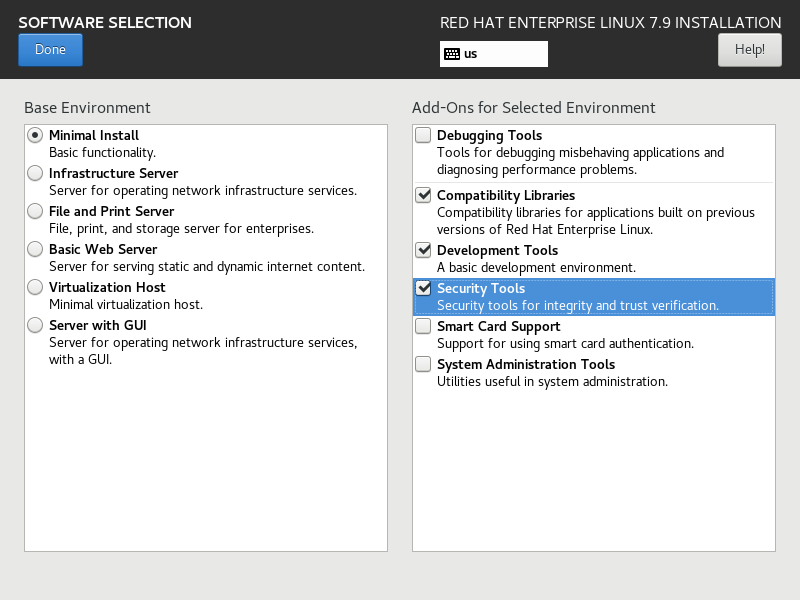
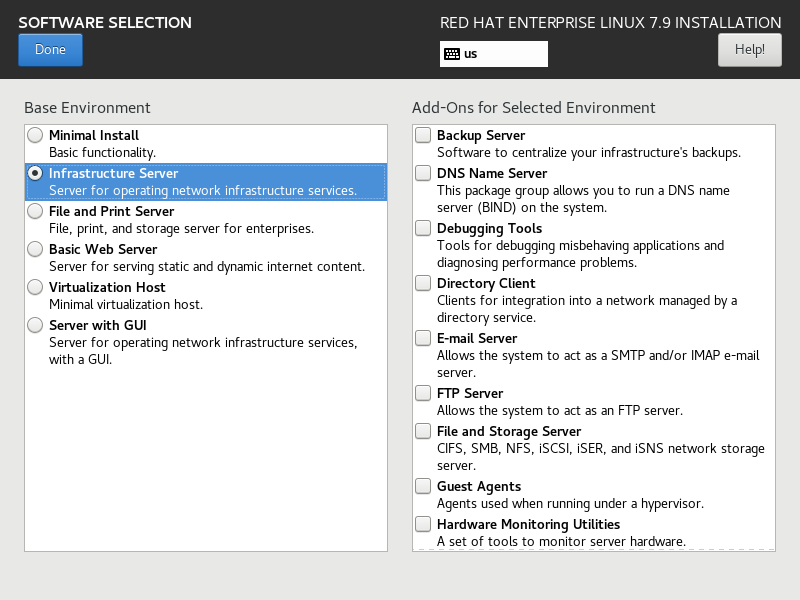
update

Changed region(s): [[0.0312, 0.21, 0.9688, 0.93], [0.7812, 0.72, 0.9375, 0.75], [0.8125, 0.84, 0.875, 0.87]]

diff --git a/docs/devops/linux/rhel7.md b/docs/devops/linux/rhel7.md
@@ -1,6 +1,6 @@
 # Redhat 7
 
-## 1. VMware安装
+## 1. VMware 12
 
 ![](../../assets/_images/devops/linux/rhel7/Vm1.png)
 ![](../../assets/_images/devops/linux/rhel7/Vm2.png)
@@ -14,17 +14,25 @@
 
 ![](../../assets/_images/devops/linux/rhel7/Vm8.png)
 
-?>将默认的 VMnet8 （NET模式） 网卡设置为 192.168.109.0/255.255.255.0，这样宿主机 windows 系统会默认获得192.168.109.1的IP，导入虚拟机镜像后可以将虚拟机网卡选择为 VMnet8 ，可以实现虚拟机 linux与外网通讯
+?> 桥接模式，必须手动选择宿主机对应的网卡，同时确认VMware Bridge Protocol被勾选，DNE LightWeight Filter未被勾选
 
 ![](../../assets/_images/devops/linux/rhel7/Vm9.png)
 
+![](../../assets/_images/devops/linux/rhel7/Vm9_win.png)
 
-?>将默认的 VMnet1 （仅主机模式） 网卡设置为 192.168.154.0/255.255.255.0，这样宿主机 windows 系统会默认获得192.168.154.1的IP，导入虚拟机镜像后可以将虚拟机网卡选择为 VMnet1 ，可以实现windows与虚拟机linux网络通信
+?>将默认的 VMnet8 （NET模式） 网卡设置为 192.168.109.0/255.255.255.0，这样宿主机 windows 系统会默认获得192.168.109.1的IP，导入虚拟机镜像后可以将虚拟机网卡选择为 VMnet8 ，可以实现虚拟机 linux与外网通讯
 
 ![](../../assets/_images/devops/linux/rhel7/Vm10.png)
 
 
-## 2. 系统安装
+?>将默认的 VMnet1 （仅主机模式） 网卡设置为 192.168.154.0/255.255.255.0，这样宿主机 windows 系统会默认获得192.168.154.1的IP，导入虚拟机镜像后可以将虚拟机网卡选择为 VMnet1 ，可以实现windows与虚拟机linux网络通信
+
+![](../../assets/_images/devops/linux/rhel7/Vm11.png)
+
+
+![](../../assets/_images/devops/linux/rhel7/Vm-net.png)
+
+## 2. 安装
 
 创建虚拟机
 
@@ -70,10 +78,10 @@
 ![](../../assets/_images/devops/linux/rhel7/17.png)
 
 接受更改Accept Changes，进入下面的界面
-
+    
 ![](../../assets/_images/devops/linux/rhel7/18.png)
 
-选择-SOFTWARE-软件选择SOFTWARE SELECTION，我们使用的是Infrastructure server版本。
+选择-SOFTWARE-软件选择SOFTWARE SELECTION，我们使用的是基础设置服务器。
 
 ![](../../assets/_images/devops/linux/rhel7/19.png)
 
@@ -121,41 +129,53 @@ KDUMP设置
 
 ## 3. 虚拟机
 
-```
-rpm -qa | grep yum
-rpm -e yum-rhn-plugin-2.0.1-10.el7.noarch --nodeps
+### 3.1 yum更换
 
+```bash
+rpm -qa | grep yum
+echo `rpm -qa | grep yum` > aa
+# 删除yum程序
+rpm -e yum-langpacks-0.4.2-7.el7.noarch --nodeps
+rpm -e yum-3.4.3-168.el7.noarch --nodeps
+rpm -e yum-metadata-parser-1.1.4-10.el7.x86_64 --nodeps
+rpm -e yum-rhn-plugin-2.0.1-10.el7.noarch --nodeps
+rpm -e yum-utils-1.1.31-54.el7_8.noarch --nodeps
+# 下载yum安装包
 wget http://mirrors.163.com/centos/7/os/x86_64/Packages/PackageKit-yum-1.1.10-2.el7.centos.x86_64.rpm
 wget http://mirrors.163.com/centos/7/os/x86_64/Packages/yum-3.4.3-168.el7.centos.noarch.rpm
 wget http://mirrors.163.com/centos/7/os/x86_64/Packages/yum-langpacks-0.4.2-7.el7.noarch.rpm
 wget http://mirrors.163.com/centos/7/os/x86_64/Packages/yum-metadata-parser-1.1.4-10.el7.x86_64.rpm
 wget http://mirrors.163.com/centos/7/os/x86_64/Packages/yum-rhn-plugin-2.0.1-10.el7.noarch.rpm
 wget http://mirrors.163.com/centos/7/os/x86_64/Packages/yum-utils-1.1.31-54.el7_8.noarch.rpm
-
+# 安装并设置yum源地址
 rpm -ivh *.rpm --force --nodeps
-cd /etc/yum.repos.d/
-vi CentOS-Base.repo
+vi /etc/yum.repos.d/CentOS-Base.repo
 ```
 
 ```conf
 [base]
 name=CentOS-$7 - Base - 163.com
+#mirrorlist=http://mirrorlist.centos.org/?release=$7&arch=$basearch&repo=os
 baseurl=http://mirrors.163.com/centos/7/os/$basearch/
 gpgcheck=1
 gpgkey=http://mirrors.163.com/centos/RPM-GPG-KEY-CentOS-7
+#released updates
 
 [updates]
 name=CentOS-$7 - Updates - 163.com
+#mirrorlist=http://mirrorlist.centos.org/?release=$7&arch=$basearch&repo=updates
 baseurl=http://mirrors.163.com/centos/7/updates/$basearch/
 gpgcheck=1
 gpgkey=http://mirrors.163.com/centos/RPM-GPG-KEY-CentOS-7
-
+#additional packages that may be useful
 
 [extras]
 name=CentOS-$7 - Extras - 163.com
+#mirrorlist=http://mirrorlist.centos.org/?release=$7&arch=$basearch&repo=extras
 baseurl=http://mirrors.163.com/centos/7/extras/$basearch/
 gpgcheck=1
 gpgkey=http://mirrors.163.com/centos/RPM-GPG-KEY-CentOS-7
+#additional packages that extend functionality of existing packages
 
 [centosplus]
 name=CentOS-$7 - Plus - 163.com
@@ -167,7 +187,12 @@ gpgkey=http://mirrors.163.com/centos/RPM-GPG-KEY-CentOS-7
 
 ```
 yum clean all
+```
 
-vi /etc/sysconfig/network-scripts/ifcfg-ens33
-vi /etc/sysconfig/network
+### 3.1 网络设置
+
+```bash
+vi /etc/sysconfig/network-scripts/ifcfg-ens33   
+systemctl restart NetworkManager    # 重启网络
+ifdown ens33; ifup ens33
 ```

diff --git a/docs/devops/linux/centos7.md b/docs/devops/linux/centos7.md
@@ -36,9 +36,10 @@ systemctl enable sshd
 ### 1.3 网络
 
 ```bash
-vi /etc/hosts                                  # hosts
-vi /etc/resolv.conf  nameserver 192.168.0.1    # dns
-vi /etc/sysconfig/network-scripts/ifcfg-enp0s3 # ip
+vi /etc/hosts
+vi /etc/resolv.conf  nameserver 192.168.0.1    # DNS
+vi /etc/sysconfig/network-scripts/ifcfg-enp0s3 # IP地址
+vi /etc/sysconfig/network                      # 默认网关
 hostnamectl set-hostname xuzhihao              # 修改主机名
 ```
 
@@ -283,6 +284,7 @@ netstat -n|grep TIME_WAIT|awk '{print $5}'|sort|uniq -c|sort -rn|head -n20
 traceroute -I www.163.com           # traceroute默认使用udp方式, 如果是-I则改成icmp方式
 traceroute -M 3 www.163.com         # 从ttl第3跳跟踪
 traceroute -p 8080 192.168.10.11    # 加上端口跟踪
+route add default gw 192.168.3.1    # 添加临时网关 route -n
 ```
 
 2. TCP调试
@@ -537,7 +539,6 @@ go env
 
 1. 重启
 
-restart_3001.sh
 ```bash
 sh /data/tomcat_webapp_3001/bin/shutdown.sh
 sleep 2s
@@ -548,7 +549,6 @@ sh /data/tomcat_webapp_3001/bin/startup.sh;tail -f /data/tomcat_webapp_3001/logs
 
 2. war部署
 
-deploy.sh
 ```bash
 sh /opt/tomcat/bin/shutdown.sh
 sleep 2s
@@ -560,8 +560,6 @@ sh /opt/tomcat/bin/startup.sh;tail -f /opt/tomcat/logs/catalina.out
 ```
 
 ### 5.2 Spring Boot启动
-
-启动run.sh
 
 ```bash
 #!/bin/bash

diff --git a/docs/devops/linux/rocky85.md b/docs/devops/linux/rocky85.md
@@ -2,7 +2,7 @@
 
 ## 1. 虚拟机
 
-1. 初始化
+### 1.1 初始化
 
 ```bash
 sed -i 's/SELINUX=.*/SELINUX=disabled/' /etc/selinux/config
@@ -10,7 +10,7 @@ systemctl stop firewalld.service
 systemctl disable firewalld.service # 关闭
 ```
 
-2. 网络设置
+### 1.2 网络设置
 
 ```bash
 vi /etc/sysconfig/network-scripts/ifcfg-enp0s3
@@ -45,7 +45,7 @@ ifdown enp0s3; ifup enp0s3
 ```
 
 
-3. yum更换
+### 1.3 yum更换
 
 ```bash
 sed -e 's|^mirrorlist=|#mirrorlist=|g' \
